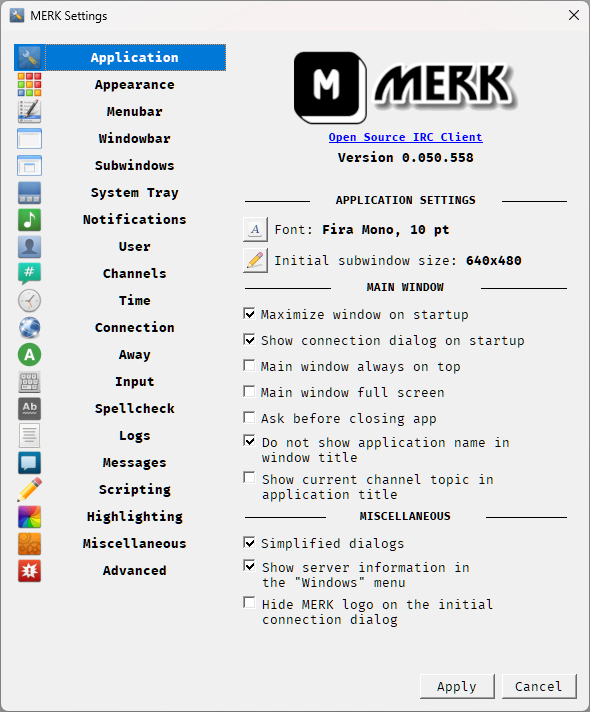
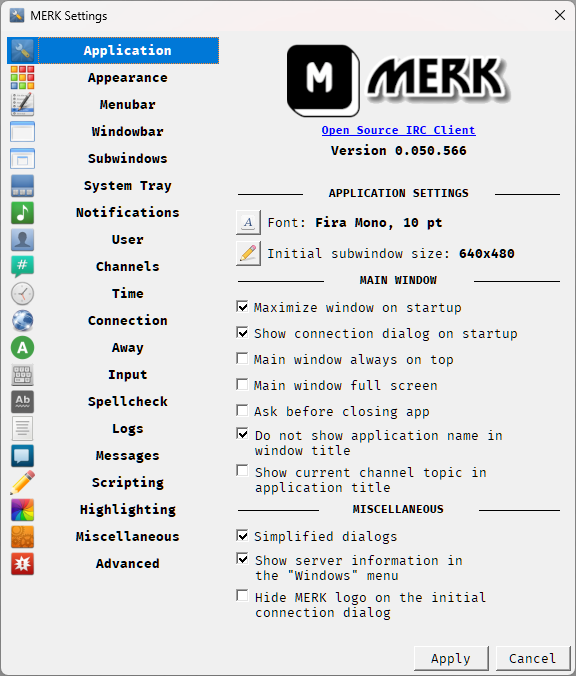
Tweak to the settings dialog master layout

diff --git a/README.html b/README.html
@@ -1,4 +1,4 @@
-<h1>MERK 0.050.566</h1>
+<h1>MERK 0.050.567</h1>
 
 <p><a href="https://github.com/nutjob-laboratories/merk">Official source code repository</a></p>
 <h1 id="table-of-contents">Table of contents</h1>
@@ -14,7 +14,7 @@
 <li><a href="#does-merk-need-any-help">Does MERK need any help?</a></li>
 </ul>
 <h1 id="summary">Summary</h1>
-<p><strong>MERK</strong> is a graphical <a href="https://www.gnu.org/licenses/gpl-3.0.en.html">open source</a> <a href="https://en.wikipedia.org/wiki/Internet_Relay_Chat">Internet relay chat</a> client. The current development version is <strong>0.050.566</strong>. It uses a <a href="https://en.wikipedia.org/wiki/Multiple-document_interface">multiple-document interface</a>, much like the popular Windows IRC client <a href="https://www.mirc.com/">mIRC</a>.  <strong>MERK</strong> is written in Python 3, using the <a href="https://pypi.org/project/PyQt5/">PyQt5</a> and <a href="https://twistedmatrix.com/trac/">Twisted</a> libraries, and runs on both Windows and Linux. <strong>MERK</strong> is updated frequently with new features and bugfixes.</p>
+<p><strong>MERK</strong> is a graphical <a href="https://www.gnu.org/licenses/gpl-3.0.en.html">open source</a> <a href="https://en.wikipedia.org/wiki/Internet_Relay_Chat">Internet relay chat</a> client. The current development version is <strong>0.050.567</strong>. It uses a <a href="https://en.wikipedia.org/wiki/Multiple-document_interface">multiple-document interface</a>, much like the popular Windows IRC client <a href="https://www.mirc.com/">mIRC</a>.  <strong>MERK</strong> is written in Python 3, using the <a href="https://pypi.org/project/PyQt5/">PyQt5</a> and <a href="https://twistedmatrix.com/trac/">Twisted</a> libraries, and runs on both Windows and Linux. <strong>MERK</strong> is updated frequently with new features and bugfixes.</p>
 <p><strong>MERK</strong> is still in development, but it works, and can be used for most IRC activities.</p>
 <p>Join me on the official <strong>MERK</strong> IRC channel, <strong>#merk</strong> on the Libera Chat network! Connect to  Libera in the client as one of the built-in server suggestions, or at <strong>irc.libera.chat</strong>, port <strong>6667</strong> (you can also connect via SSL on port <strong>6697</strong>). Honestly, I work a lot, so I&#39;m almost always idle, but I pop in and chat a few times a day!</p>
 <h1 id="making-merk-portable-on-windows">Making MERK Portable on Windows</h1>

diff --git a/merk/resources/README.html b/merk/resources/README.html
@@ -1,4 +1,4 @@
-<h1>MERK 0.050.566</h1>
+<h1>MERK 0.050.567</h1>
 
 <p><a href="https://github.com/nutjob-laboratories/merk">Official source code repository</a></p>
 <h1 id="table-of-contents">Table of contents</h1>
@@ -14,7 +14,7 @@
 <li><a href="#does-merk-need-any-help">Does MERK need any help?</a></li>
 </ul>
 <h1 id="summary">Summary</h1>
-<p><strong>MERK</strong> is a graphical <a href="https://www.gnu.org/licenses/gpl-3.0.en.html">open source</a> <a href="https://en.wikipedia.org/wiki/Internet_Relay_Chat">Internet relay chat</a> client. The current development version is <strong>0.050.566</strong>. It uses a <a href="https://en.wikipedia.org/wiki/Multiple-document_interface">multiple-document interface</a>, much like the popular Windows IRC client <a href="https://www.mirc.com/">mIRC</a>.  <strong>MERK</strong> is written in Python 3, using the <a href="https://pypi.org/project/PyQt5/">PyQt5</a> and <a href="https://twistedmatrix.com/trac/">Twisted</a> libraries, and runs on both Windows and Linux. <strong>MERK</strong> is updated frequently with new features and bugfixes.</p>
+<p><strong>MERK</strong> is a graphical <a href="https://www.gnu.org/licenses/gpl-3.0.en.html">open source</a> <a href="https://en.wikipedia.org/wiki/Internet_Relay_Chat">Internet relay chat</a> client. The current development version is <strong>0.050.567</strong>. It uses a <a href="https://en.wikipedia.org/wiki/Multiple-document_interface">multiple-document interface</a>, much like the popular Windows IRC client <a href="https://www.mirc.com/">mIRC</a>.  <strong>MERK</strong> is written in Python 3, using the <a href="https://pypi.org/project/PyQt5/">PyQt5</a> and <a href="https://twistedmatrix.com/trac/">Twisted</a> libraries, and runs on both Windows and Linux. <strong>MERK</strong> is updated frequently with new features and bugfixes.</p>
 <p><strong>MERK</strong> is still in development, but it works, and can be used for most IRC activities.</p>
 <p>Join me on the official <strong>MERK</strong> IRC channel, <strong>#merk</strong> on the Libera Chat network! Connect to  Libera in the client as one of the built-in server suggestions, or at <strong>irc.libera.chat</strong>, port <strong>6667</strong> (you can also connect via SSL on port <strong>6697</strong>). Honestly, I work a lot, so I&#39;m almost always idle, but I pop in and chat a few times a day!</p>
 <h1 id="making-merk-portable-on-windows">Making MERK Portable on Windows</h1>

diff --git a/merk/dialog/settings.py b/merk/dialog/settings.py
@@ -4273,10 +4273,12 @@ class Dialog(QDialog):
 		mainLayout = QHBoxLayout()
 		mainLayout.addLayout(leftLayout)
 		mainLayout.addWidget(self.stack)
+		mainLayout.setContentsMargins(1,1,1,1)
 
 		self.finalLayout = QVBoxLayout()
 		self.finalLayout.addLayout(mainLayout)
 		self.finalLayout.addLayout(dialogButtonsLayout)
+		self.finalLayout.setContentsMargins(3,3,3,3)
 
 		self.setWindowFlags(self.windowFlags()
 					^ QtCore.Qt.WindowContextHelpButtonHint)

diff --git a/merk/resources/version.py b/merk/resources/version.py
@@ -1,1 +1,1 @@
-APPLICATION_VERSION = "0.050.566"
+APPLICATION_VERSION = "0.050.567"

diff --git a/README.md b/README.md
@@ -3,7 +3,7 @@
   <b><big>Open Source IRC Client</big></b><br>
   <i>A multiple-document interface IRC client for Windows and Linux</i><br>
   <b><big>Current stable release: <a href="https://github.com/nutjob-laboratories/merk/releases/tag/0.050.550">MERK 0.050.550</a></big></b><br>
-  <b>Current development version: 0.050.566</b><br><br>
+  <b>Current development version: 0.050.567</b><br><br>
   <b><a href="https://gofund.me/ae062139">Help Fund MERK!</a></b><br>
 </p>
 
@@ -30,13 +30,13 @@ All files are packed in [ZIP archive files](https://en.wikipedia.org/wiki/ZIP_(f
 | :----:    | :----:    | :----:    |
 | User Guide |  PDF  | [MERK User Guide](./MERK_User_Guide.pdf)  |
 | Current Release |  -  | [MERK 0.050.550 Release](https://github.com/nutjob-laboratories/merk/releases/tag/0.050.550)  |
-| Zip Archive|  Cross-platform  | [Download MERK 0.050.566 (11.99 MB)](https://www.dropbox.com/scl/fi/pf9p7ltb3uufm5akjz7l0/merk-latest.zip?rlkey=3caodopybbcxr4p9grxygxzym&st=01zsuura&dl=1)  |
-| Zip Archive|  Windows EXE | [Download MERK 0.050.566 (48.82 MB)](https://www.dropbox.com/scl/fi/4w9ufyknzac24o06710bi/merk-windows-latest.zip?rlkey=zmir67l3klg8mw0omxayzmssc&st=vb69tsdi&dl=1)|
-|   Windows Installer|  Windows Setup | [Download MERK 0.050.566 (45.93 MB)](https://www.dropbox.com/scl/fi/0u1vcg5xuntzs2b16e01b/merk_setup.zip?rlkey=8avj1gyed3txz1nfj9ev41mmh&st=zlve4c1o&dl=1)|
+| Zip Archive|  Cross-platform  | [Download MERK 0.050.567 (11.99 MB)](https://www.dropbox.com/scl/fi/pf9p7ltb3uufm5akjz7l0/merk-latest.zip?rlkey=3caodopybbcxr4p9grxygxzym&st=01zsuura&dl=1)  |
+| Zip Archive|  Windows EXE | [Download MERK 0.050.567 (48.81 MB)](https://www.dropbox.com/scl/fi/4w9ufyknzac24o06710bi/merk-windows-latest.zip?rlkey=zmir67l3klg8mw0omxayzmssc&st=vb69tsdi&dl=1)|
+|   Windows Installer|  Windows Setup | [Download MERK 0.050.567 (45.93 MB)](https://www.dropbox.com/scl/fi/0u1vcg5xuntzs2b16e01b/merk_setup.zip?rlkey=8avj1gyed3txz1nfj9ev41mmh&st=zlve4c1o&dl=1)|
 
 # Summary
   
-**MERK** is a graphical [open source](https://www.gnu.org/licenses/gpl-3.0.en.html) [Internet relay chat](https://en.wikipedia.org/wiki/Internet_Relay_Chat) client. The current development version is **0.050.566**. It uses a [multiple-document interface](https://en.wikipedia.org/wiki/Multiple-document_interface), much like the popular Windows IRC client [mIRC](https://www.mirc.com/).  **MERK** is written in Python 3, using the [PyQt5](https://pypi.org/project/PyQt5/) and [Twisted](https://twistedmatrix.com/trac/) libraries, and runs on both Windows and Linux. **MERK** is updated frequently with new features and bugfixes.
+**MERK** is a graphical [open source](https://www.gnu.org/licenses/gpl-3.0.en.html) [Internet relay chat](https://en.wikipedia.org/wiki/Internet_Relay_Chat) client. The current development version is **0.050.567**. It uses a [multiple-document interface](https://en.wikipedia.org/wiki/Multiple-document_interface), much like the popular Windows IRC client [mIRC](https://www.mirc.com/).  **MERK** is written in Python 3, using the [PyQt5](https://pypi.org/project/PyQt5/) and [Twisted](https://twistedmatrix.com/trac/) libraries, and runs on both Windows and Linux. **MERK** is updated frequently with new features and bugfixes.
 
 **MERK** is still in development, but it works, and can be used for most IRC activities. [The current stable release of **MERK** is version 0.050.550](https://github.com/nutjob-laboratories/merk/releases/tag/0.050.550). **MERK** has a user guide, which can be [viewed here](./MERK_User_Guide.pdf).
 
@@ -118,7 +118,7 @@ There are three libraries that comes bundled with **MERK**:
 
 # Screenshots
 
-<p><small><i>Screenshots may not reflect the current release (0.050.550), and may reflect the current development version (0.050.566). More screenshots are in the <a href="./MERK_User_Guide.pdf">MERK User Guide</a>.</i></small></p>
+<p><small><i>Screenshots may not reflect the current release (0.050.550), and may reflect the current development version (0.050.567). More screenshots are in the <a href="./MERK_User_Guide.pdf">MERK User Guide</a>.</i></small></p>
 
 <p align="center">
 <center><a href="./graphics/screenshot_big.png"><img src="./graphics/screenshot1.png"></a></center></br>
